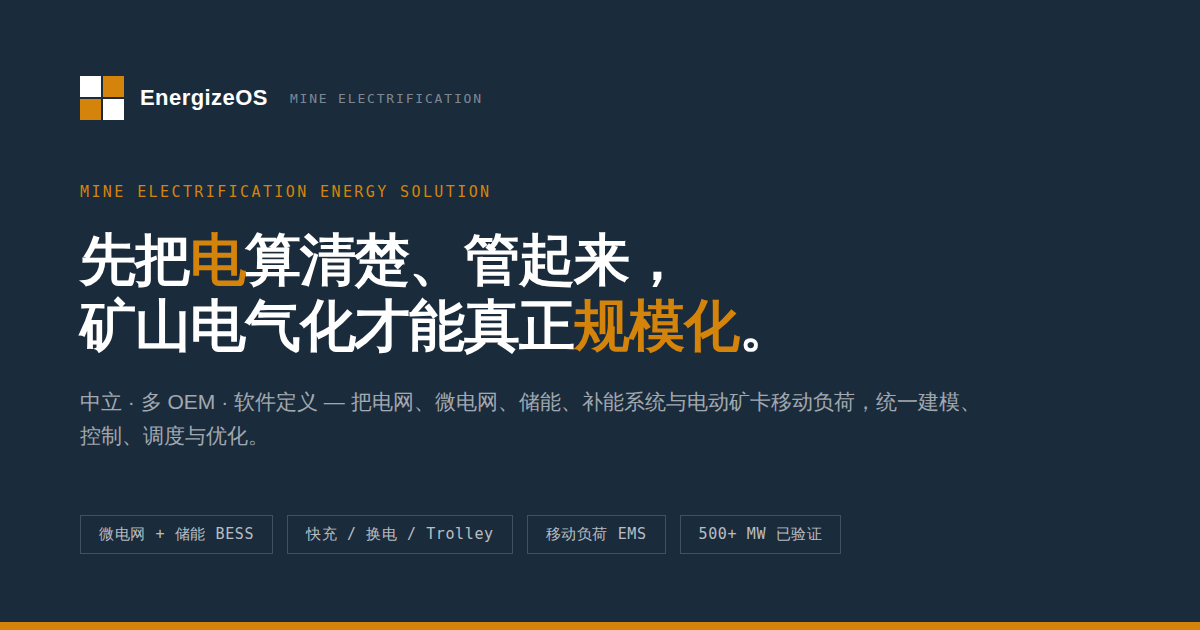
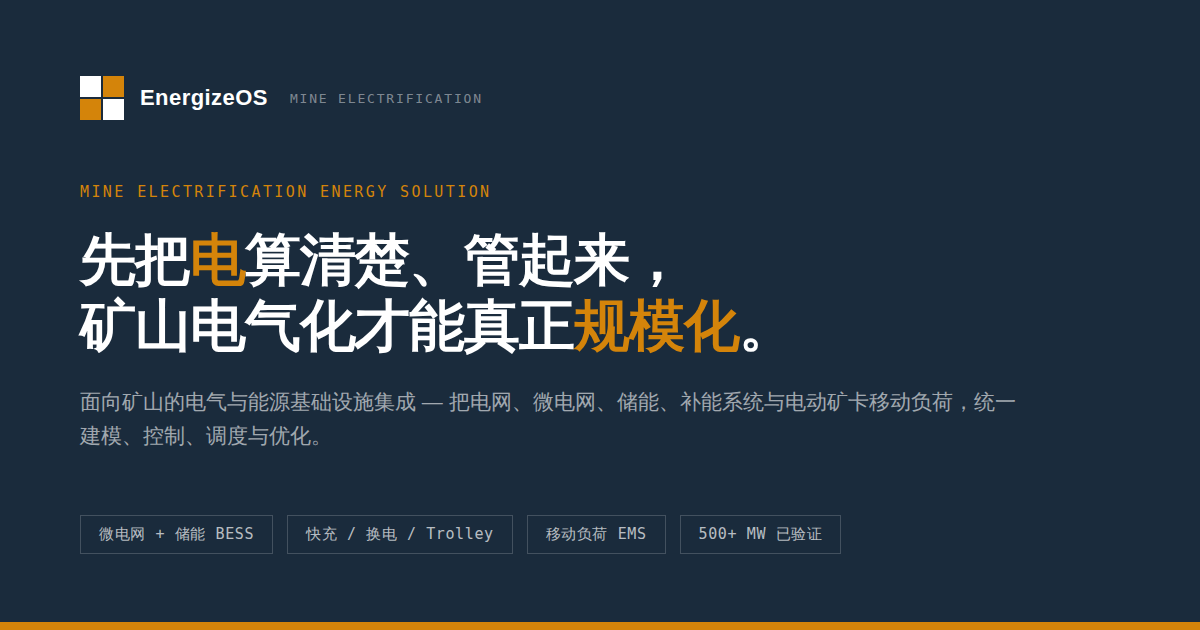
Remove internal-voice phrasing across page and OG card; formalize for client-facing use

Changed region(s): [[0.0617, 0.6032, 0.8325, 0.7238]]

diff --git a/mine-electrification/index.html b/mine-electrification/index.html
@@ -10,7 +10,7 @@
 <meta property="og:type" content="website">
 <meta property="og:site_name" content="EnergizeOS">
 <meta property="og:title" content="矿山电气化能源整体解决方案 — EnergizeOS">
-<meta property="og:description" content="中立 · 多 OEM · 软件定义。把电网、微电网、储能、补能系统与电动矿卡移动负荷统一建模、控制、调度与优化。先算清账，再管住电。">
+<meta property="og:description" content="面向矿山的中立电气与能源基础设施集成：把电网、微电网、储能、补能系统与电动矿卡移动负荷统一建模、控制、调度与优化。投资前先算清经济性，运营中真正管住电。">
 <meta property="og:image" content="https://docs.energizeos.com/mine-electrification/assets/og-image.png">
 <meta property="og:url" content="https://docs.energizeos.com/mine-electrification/">
 <meta property="og:image:width" content="1200">
@@ -469,7 +469,7 @@ footer{background:#131F2B;border-top:1px solid rgba(255,255,255,.06)}
     <div class="sec-head reveal">
       <div class="eyebrow">Our Position</div>
       <h2 class="sec-h2">我们把行业重新定义为<em>矿山电气化</em></h2>
-      <p class="sec-sub">Mine Electrification。电动矿卡只是入口，不是全部。矿山电气化领域并非没有强玩家——ABB、Schneider、Hitachi Energy、Siemens 都在其中。但设备巨头的方案往往自然导向自家 PCS、开关柜与平台，交付偏重、软件复用慢。真正的空白，在三个交叉点上：矿山专用、多 OEM 中立、软件定义且可快速复制——这正是我们选择站位的地方。</p>
+      <p class="sec-sub">Mine Electrification。电动矿卡只是入口，不是全部。矿山电气化领域并非没有强玩家——ABB、Schneider、Hitachi Energy、Siemens 都在其中。但设备巨头的方案往往自然导向自家 PCS、开关柜与平台，交付偏重、软件复用慢。真正尚未被充分满足的，是三个交叉点：矿山专用、多 OEM 中立、软件定义且可快速复制——这也正是我们为矿业客户创造价值的方式。</p>
     </div>
     <div class="pos-wrap">
       <div class="pos-col dont reveal">
@@ -550,7 +550,7 @@ footer{background:#131F2B;border-top:1px solid rgba(255,255,255,.06)}
         <div class="layer-badge"><span class="layer-n">LAYER 6</span><span class="layer-en">Optimization</span></div>
         <div class="layer-main">
           <div class="layer-t">优化层<span class="own">高价值软件</span></div>
-          <div class="layer-d">充电优化、换电优化、Trolley 供电优化、电池健康优化、柴油节省、绿电利用、碳优化、能源成本与峰值需量控制。这是未来高毛利软件收入的核心。</div>
+          <div class="layer-d">充电优化、换电优化、Trolley 供电优化、电池健康优化、柴油节省、绿电利用、碳优化、能源成本与峰值需量控制。这一层直接决定电气化后的长期运营成本与减排成效。</div>
           <div class="layer-tags"><span class="layer-tag">Charging Opt.</span><span class="layer-tag">Diesel Saving</span><span class="layer-tag">Battery Health</span><span class="layer-tag">Carbon-aware</span></div>
         </div>
       </div>
@@ -558,12 +558,12 @@ footer{background:#131F2B;border-top:1px solid rgba(255,255,255,.06)}
         <div class="layer-badge"><span class="layer-n">LAYER 7</span><span class="layer-en">Business Intel.</span></div>
         <div class="layer-main">
           <div class="layer-t">管理层看板层<span class="own">决策输出</span></div>
-          <div class="layer-d">老板不关心每一个 SOC 点位，只关心：今天生产是否受影响、柴油少用多少、电费多少、碳排多少、BESS 是否健康、车队是否按计划、可用率是否达标、ROI 是否符合计划。最终输出是 Executive Dashboard。</div>
+          <div class="layer-d">管理层无需关注每一个 SOC 点位，真正关心的是：今天生产是否受影响、柴油少用多少、电费多少、碳排多少、BESS 是否健康、车队是否按计划、可用率是否达标、ROI 是否符合计划。最终输出是面向管理层的决策看板（Executive Dashboard）。</div>
           <div class="layer-tags"><span class="layer-tag">TCO</span><span class="layer-tag">Diesel Saving</span><span class="layer-tag">CO₂</span><span class="layer-tag">Availability</span><span class="layer-tag">ROI</span></div>
         </div>
       </div>
     </div>
-    <div class="layer-note reveal"><strong>控制哲学 ·</strong> 生产调度归生产系统，能源调度归 EnergizeOS。保护跳闸优先级永远高于 EMS，安全闭环留给 PLC / 继电器 / 本地控制器；EMS 可以优化和授权，但绝不绕过保护。这与我们现有的 ECP / AIPP / C1–C7 控制哲学完全一致。</div>
+    <div class="layer-note reveal"><strong>控制原则 ·</strong> 生产调度归生产系统，能源调度归 EnergizeOS。保护跳闸优先级永远高于 EMS，安全闭环留给 PLC / 继电器 / 本地控制器；EMS 可以优化和授权，但绝不绕过保护。这一控制原则贯穿我们全部能源系统的设计与交付。</div>
   </div>
 </section>
 
@@ -611,7 +611,7 @@ footer{background:#131F2B;border-top:1px solid rgba(255,255,255,.06)}
     <div class="sec-head reveal">
       <div class="eyebrow">Core Products</div>
       <h2 class="sec-h2">两个即刻可交付的<em>核心产品</em></h2>
-      <p class="sec-sub">产品主线是 Mine Electrification Suite，但这是一条路线图，不是一次性铺开的九条产品线。当前阶段我们只聚焦两个可交付的核心产品——先帮您把电气化算清楚，再帮您把它管起来。</p>
+      <p class="sec-sub">矿山电气化的能力覆盖面很广，但我们当前只聚焦两个可立即交付的核心产品——先帮您把电气化算清楚，再帮您把它管起来。其余能力将随项目需要逐步展开。</p>
     </div>
     <div class="prod-grid">
       <div class="prod-card reveal">
@@ -858,10 +858,10 @@ footer{background:#131F2B;border-top:1px solid rgba(255,255,255,.06)}
       </div>
       <div class="region-card reveal">
         <div class="region-rank">04</div>
-        <div class="region-pri">灯塔验证</div>
+        <div class="region-pri">标杆示范</div>
         <div class="region-t">澳大利亚 / 北美<span class="flag">铁矿 · 铜 · 关键矿物</span></div>
-        <div class="region-d">认证周期长、服务要求高、既有 OEM 关系强。适合作为未来灯塔验证项目，需先备齐安全标准、工程签章、保险与本地服务伙伴，不作第一现金流市场。</div>
-        <div class="region-mins"><span class="region-min">灯塔项目</span><span class="region-min">品牌验证</span><span class="region-min">合规前置</span></div>
+        <div class="region-d">认证周期长、服务要求高、既有 OEM 关系强。这类区域适合作为高标准的标杆示范项目，需先备齐安全标准、工程签章、保险与本地服务伙伴，以严谨的合规与工程质量建立长期信任。</div>
+        <div class="region-mins"><span class="region-min">标杆示范</span><span class="region-min">高标准认证</span><span class="region-min">合规前置</span></div>
       </div>
     </div>
     <div class="region-hold reveal"><strong>合规前置原则 ·</strong> 进入每一个目标区域，我们都在 BD 阶段同步确认：矿区自备电与供电许可、微电网 / 并网接入要求、高压配电设计审批、高海拔设备降额、矿山安全监管、设备进口与认证，以及是否需要本地持证工程师或合作设计院。合规不是工程阶段的意外，而是商务阶段的前提。</div>